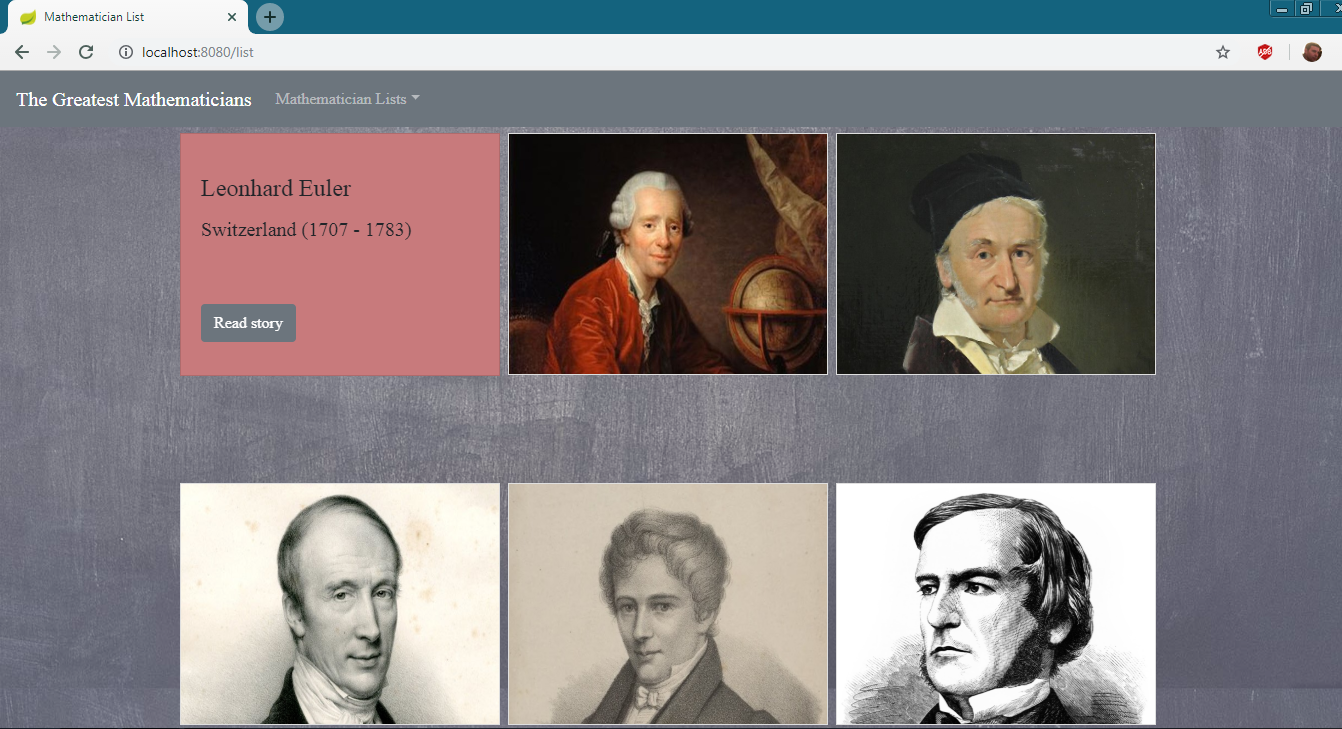
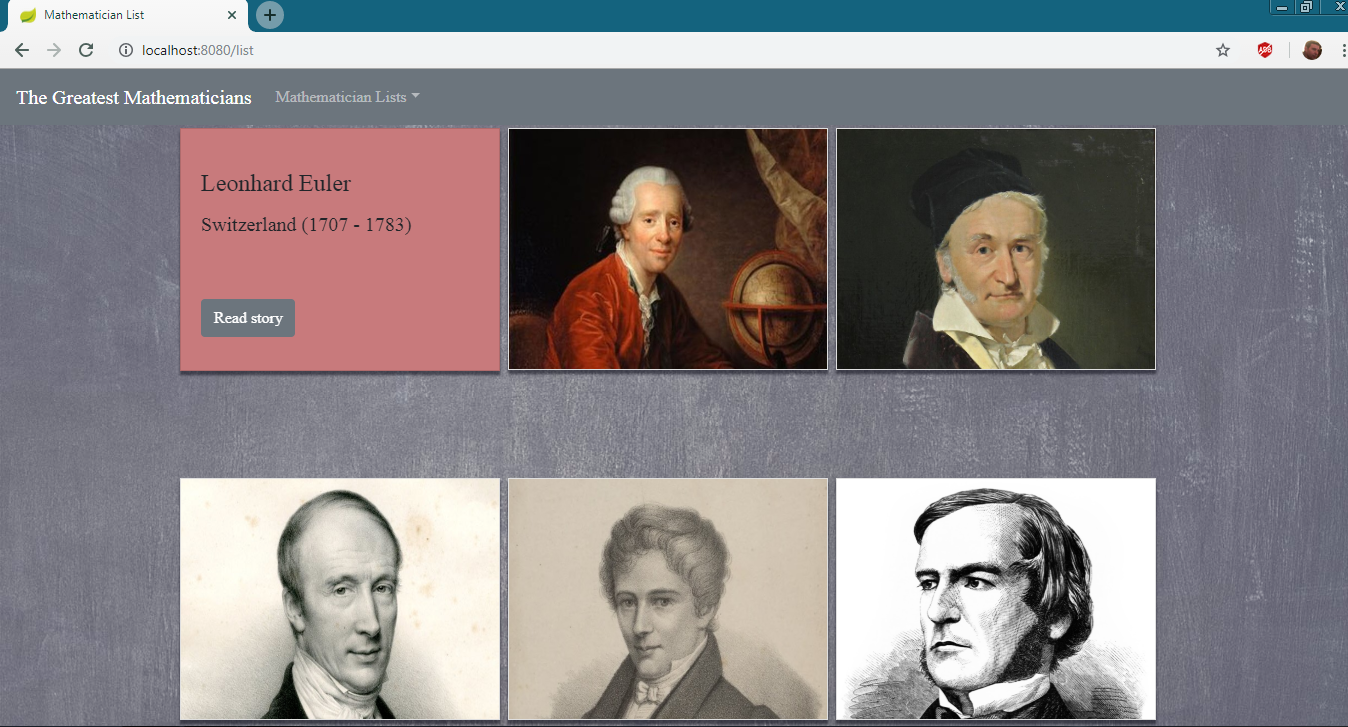
change cards

diff --git a/src/main/resources/templates/math_list.html b/src/main/resources/templates/math_list.html
@@ -13,6 +13,14 @@
     <link rel="stylesheet" th:href="@{/css/card.css}"/>
     <script th:src="@{/js/maths.js}"></script>
 
+    <style>
+        .frontside{
+            box-shadow: 0 4px 2px rgba(13, 13, 26, 0.54);
+        }
+        .backside{
+            box-shadow: 0 4px 2px rgba(13, 13, 26, 0.54);
+        }
+    </style>
 </head>
 <body>
 
